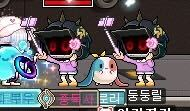
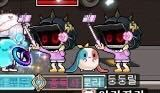
dd

diff --git a/Cozem/quiz.py b/Cozem/quiz.py
@@ -816,7 +816,7 @@ elif choice == "아카이브":
         col9, col10 = st.columns(2)            
         with col9:
             st.write("**귀여운 셀카(*/ω＼*)**")
-            st.image("Cozem/image/hide_and_seek.jpg", use_column_width=True)
+            st.image("Cozem/image/selfi.jpg", use_column_width=True)
         with col10:
             st.write("**과거 단체수로 시절 마지막 수로 입장 전 사진!**")
             st.image("Cozem/image/suro.png", use_column_width=True)
